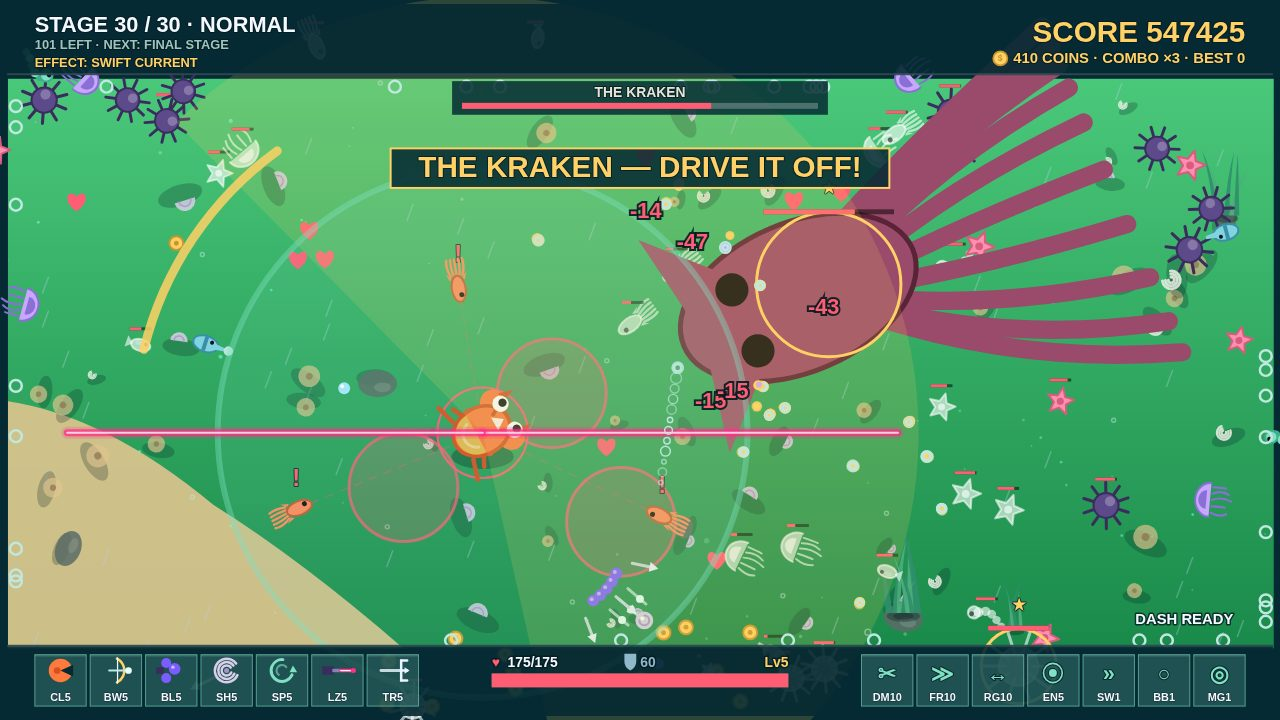
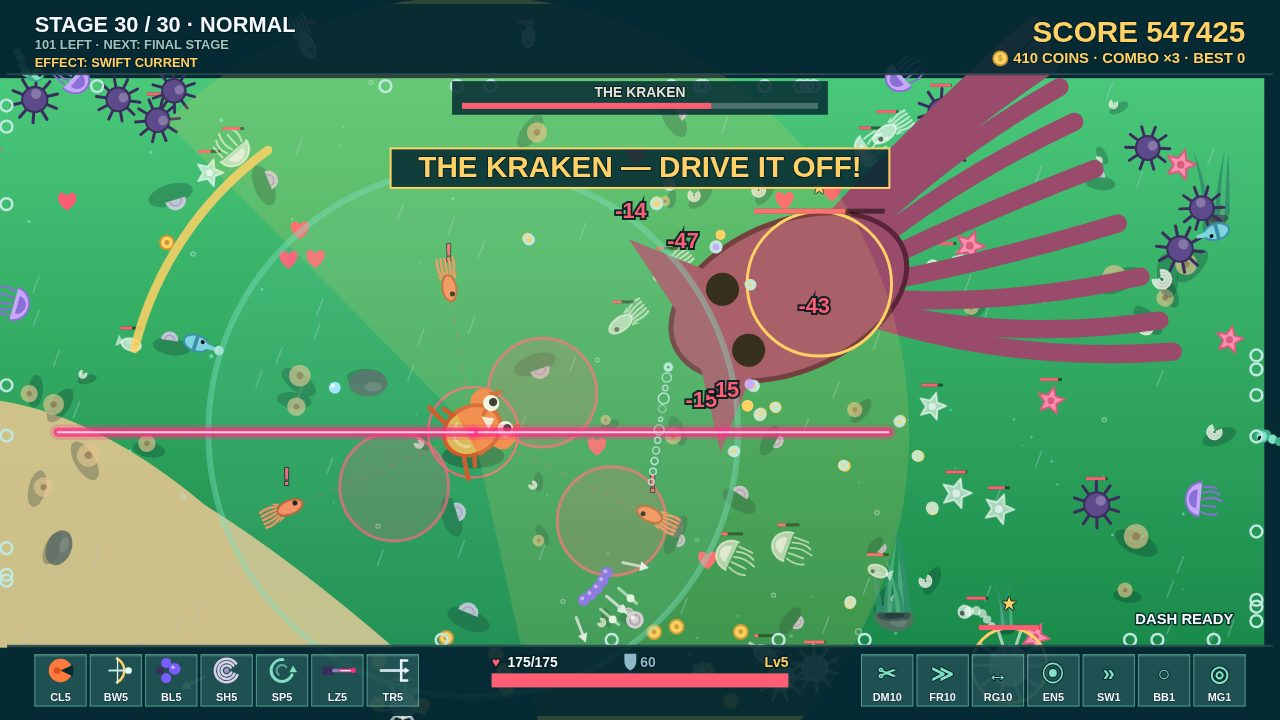
TIDEKEEPER v32: bigger v1.0 label (bold 16px, 70% white), thicker laser beam (16px glow + 9px beam, core 2px) (dossier 163,528 B)

diff --git a/game/src/render/creatures.js b/game/src/render/creatures.js
@@ -76,9 +76,9 @@ export function drawCrab(ctx, p, t, clawStats, spinStats) {
     const dirs = p.laserBeams >= 2 ? [1, -1] : [1];
     ctx.save(); ctx.lineCap = 'round';
     for (const dir of dirs) {
-      ctx.strokeStyle = `rgba(255,46,136,${a * 0.28})`; ctx.lineWidth = 12;
+      ctx.strokeStyle = `rgba(255,46,136,${a * 0.28})`; ctx.lineWidth = 16;
       ctx.beginPath(); ctx.moveTo(p.x, p.y); ctx.lineTo(p.x + dir * p.laserLen, p.y); ctx.stroke();
-      ctx.strokeStyle = `rgba(255,46,136,${a})`; ctx.lineWidth = 7;
+      ctx.strokeStyle = `rgba(255,46,136,${a})`; ctx.lineWidth = 9;
       ctx.beginPath(); ctx.moveTo(p.x, p.y); ctx.lineTo(p.x + dir * p.laserLen, p.y); ctx.stroke();
       ctx.strokeStyle = `rgba(255,255,255,${a})`; ctx.lineWidth = 2;
       ctx.beginPath(); ctx.moveTo(p.x, p.y); ctx.lineTo(p.x + dir * p.laserLen, p.y); ctx.stroke();

diff --git a/game/src/render/title.js b/game/src/render/title.js
@@ -95,8 +95,8 @@ export function drawTitle(ctx, state) {
     }
   }
   ctx.textAlign = 'right';
-  ctx.font = '11px sans-serif';
-  ctx.fillStyle = 'rgba(255,255,255,0.45)';
+  ctx.font = 'bold 16px sans-serif';
+  ctx.fillStyle = 'rgba(255,255,255,0.7)';
   ctx.fillText('v1.0', VIEW_W - 12, 708);
 }
 
